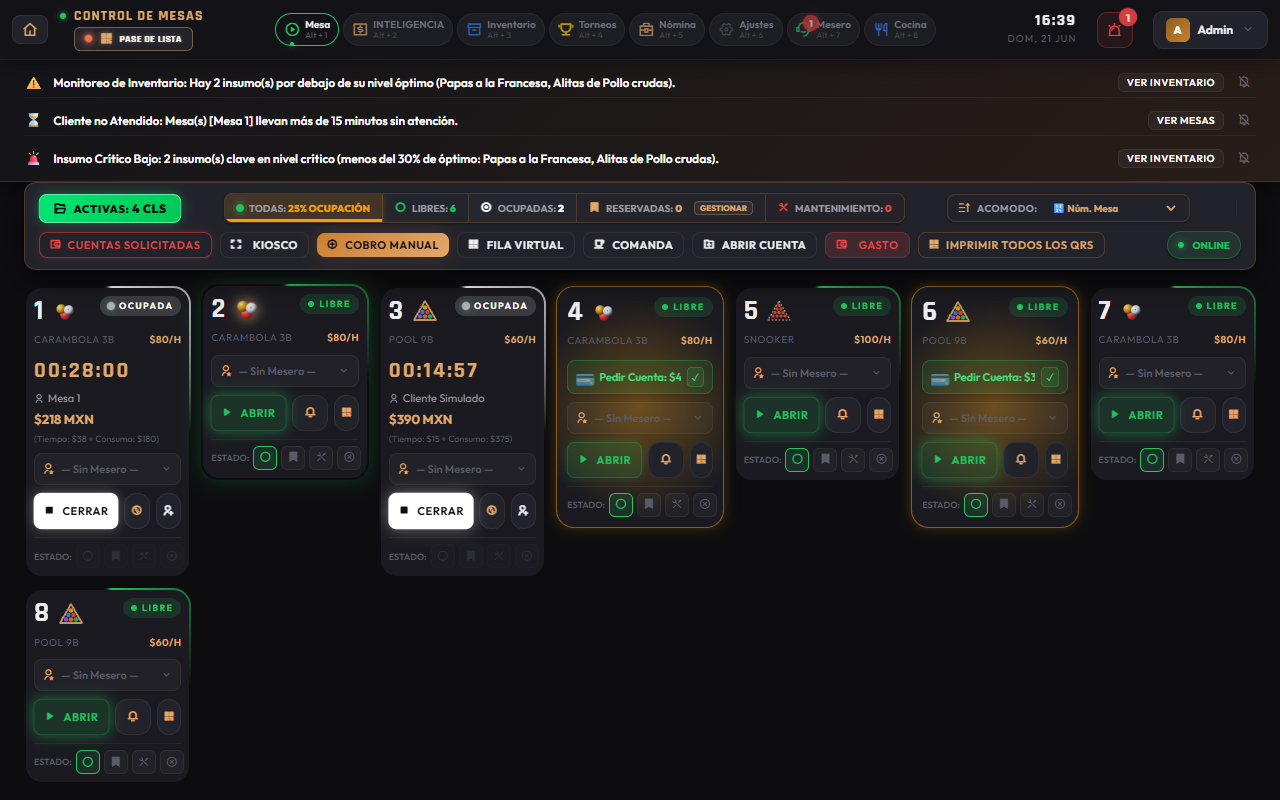
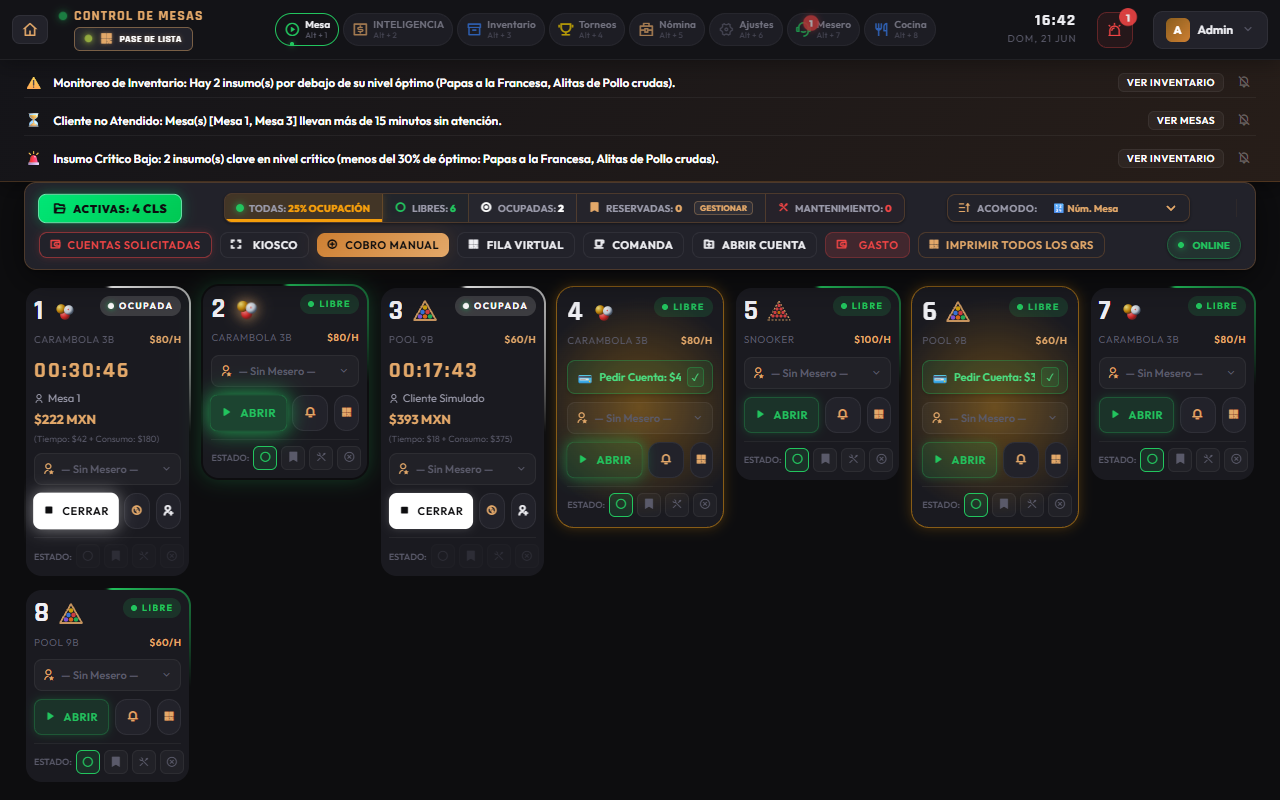
Actualizacion: 21/06/2026 16:43:59.93

diff --git a/scratch/simulate_all_flows.js b/scratch/simulate_all_flows.js
@@ -15,11 +15,11 @@ async function dismissAlerts(page) {
         const text = await page.evaluate(el => el.textContent, btn);
         if (text.includes('Atendido') || (text.includes('✓') && text.toLowerCase().includes('atend'))) {
           console.log(`  [ALERTA DETECTADA] Descartando alerta activa: "${text.trim()}"`);
-          await btn.click();
+          await page.evaluate(el => el.click(), btn);
           await delay(2000);
           dismissed = true;
           dismissedCount++;
-          break; // Salir y volver a buscar botones (por si la lista cambió)
+          break; // Salir y volver a buscar botones
         }
       } catch (e) {}
     }
@@ -60,10 +60,16 @@ async function run() {
     await page.waitForSelector('select.form-select', { timeout: 15000 });
     await page.select('select.form-select', '[email redacted]');
     await page.type('input[type="password"]', 'admin1111');
-    await Promise.all([
-      page.click('button[type="submit"]'),
-      page.waitForNavigation({ waitUntil: 'networkidle2', timeout: 15000 }).catch(() => {})
-    ]);
+    
+    // Clic en el botón submit usando evaluate
+    const submitBtn = await page.$('button[type="submit"]');
+    if (submitBtn) {
+      await Promise.all([
+        page.evaluate(el => el.click(), submitBtn),
+        page.waitForNavigation({ waitUntil: 'networkidle2', timeout: 15000 }).catch(() => {})
+      ]);
+    }
+    
     await page.waitForSelector('.page-header, .panel-header, button', { timeout: 15000 });
     console.log("✓ Login exitoso.");
     await page.screenshot({ path: 'scratch/0_login_success.png' });
@@ -88,8 +94,8 @@ async function run() {
 
     if (paseListaBtn) {
       console.log("  Abriendo modal de Pase de Lista...");
-      await paseListaBtn.click();
-      await delay(2000);
+      await page.evaluate(el => el.click(), paseListaBtn);
+      await delay(2500);
 
       // Esperar a que se carguen los empleados en el modal (icono de usuario)
       await page.waitForSelector('.ri-user-line', { timeout: 10000 }).catch(err => {
@@ -121,7 +127,7 @@ async function run() {
 
       if (firstEmployee) {
         console.log("  Haciendo clic en el primer empleado para fichar...");
-        await firstEmployee.click();
+        await page.evaluate(el => el.click(), firstEmployee);
         await delay(2500);
 
         // Si es mesero, abre el modal de asignación de mesas
@@ -137,7 +143,7 @@ async function run() {
 
         if (omitirBtn) {
           console.log(`  Confirmando asistencia con '${await page.evaluate(el => el.textContent, omitirBtn)}'...`);
-          await omitirBtn.click();
+          await page.evaluate(el => el.click(), omitirBtn);
           await delay(3000);
           console.log("✓ Asistencia fichada exitosamente.");
           await page.screenshot({ path: 'scratch/2_pase_lista_success.png' });
@@ -153,7 +159,7 @@ async function run() {
       for (const btn of closeButtons) {
         const text = await page.evaluate(el => el.textContent, btn);
         if (text.includes('Volver') || text.includes('Cancelar') || text.includes('Cerrar') || text.includes('✖')) {
-          await btn.click().catch(() => {});
+          await page.evaluate(el => el.click(), btn).catch(() => {});
           await delay(1000);
         }
       }
@@ -193,12 +199,12 @@ async function run() {
       }
       if (abrirMesaBtnInCard) {
         console.log(`  Haciendo clic en el botón 'Abrir' de la Mesa ${mesaIdSeleccionada}...`);
-        await abrirMesaBtnInCard.click();
+        await page.evaluate(el => el.click(), abrirMesaBtnInCard);
       } else {
         console.log("  No se encontró el botón 'Abrir', intentando clic general en la tarjeta...");
-        await libreCard.click();
+        await page.evaluate(el => el.click(), libreCard);
       }
-      await delay(2500);
+      await delay(3000);
 
       // Llenar el nombre en el modal
       await page.waitForSelector('input[placeholder="Ej: Carlos Rodríguez"]', { timeout: 10000 });
@@ -208,7 +214,8 @@ async function run() {
       const checkboxes = await page.$$('input[type="checkbox"]');
       if (checkboxes.length > 0) {
         console.log("  Seleccionando renta de equipamiento premium opcional...");
-        await checkboxes[0].click();
+        await page.evaluate(el => el.click(), checkboxes[0]);
+        await delay(500);
       }
 
       // Iniciar Mesa
@@ -223,7 +230,7 @@ async function run() {
       }
 
       if (iniciarMesaBtn) {
-        await iniciarMesaBtn.click();
+        await page.evaluate(el => el.click(), iniciarMesaBtn);
         await delay(4000);
         console.log(`✓ Mesa ${mesaIdSeleccionada} abierta exitosamente.`);
         await page.screenshot({ path: 'scratch/3_mesa_abierta.png' });
@@ -249,24 +256,24 @@ async function run() {
 
     if (comandaBtn && mesaIdSeleccionada) {
       console.log("  Abriendo modal de Registro de Comanda...");
-      await comandaBtn.click();
-      await delay(2000);
+      await page.evaluate(el => el.click(), comandaBtn);
+      await delay(2500);
 
       // Clic en destino Mesa
       const destButtons = await page.$$('button');
       for (const dBtn of destButtons) {
         const text = await page.evaluate(el => el.textContent, dBtn);
         if (text.trim() === 'Mesa') {
-          await dBtn.click();
+          await page.evaluate(el => el.click(), dBtn);
           break;
         }
       }
-      await delay(1000);
+      await delay(1500);
 
       // Seleccionar la mesa destino en el select
       await page.waitForSelector('select.form-select', { timeout: 10000 });
       await page.select('select.form-select', String(mesaIdSeleccionada));
-      await delay(1000);
+      await delay(1500);
 
       // Agregar un producto disponible que no esté agotado
       const productDivs = await page.$$('div');
@@ -277,10 +284,10 @@ async function run() {
           const isAgotado = text.includes('AGOTADO');
           if (text.includes('Stock:') && !isAgotado && text.includes('$')) {
             console.log(`  Agregando producto a la comanda: ${text.split('\n')[0].trim()}`);
-            await div.click();
-            await delay(500);
-            await div.click();
+            await page.evaluate(el => el.click(), div);
             await delay(1000);
+            await page.evaluate(el => el.click(), div);
+            await delay(1500);
             addedProduct = true;
             break;
           }
@@ -300,7 +307,7 @@ async function run() {
         }
 
         if (sendBtn) {
-          await sendBtn.click();
+          await page.evaluate(el => el.click(), sendBtn);
           await delay(4000);
           console.log("✓ Comanda registrada y enviada a preparación.");
           await page.screenshot({ path: 'scratch/4_comanda_enviada.png' });
@@ -326,8 +333,8 @@ async function run() {
         const text = await page.evaluate(el => el.textContent, kBtn);
         if (text.includes('Pedido Listo')) {
           console.log("  Cocinero marca comanda como lista para mesero...");
-          await kBtn.click();
-          await delay(2000);
+          await page.evaluate(el => el.click(), kBtn);
+          await delay(2500);
           listosCocina++;
         }
       } catch (e) {}
@@ -347,8 +354,8 @@ async function run() {
         const text = await page.evaluate(el => el.textContent, mBtn);
         if (text.includes('Atendido') && text.includes('✓')) {
           console.log("  Mesero descarta alerta y entrega pedido al cliente...");
-          await mBtn.click();
-          await delay(2000);
+          await page.evaluate(el => el.click(), mBtn);
+          await delay(2500);
           entregasMesero++;
         }
       } catch (e) {}
@@ -380,12 +387,12 @@ async function run() {
         const closeBtn = await targetMesaCard.$('button');
         if (closeBtn) {
           console.log(`  Abriendo modal de cobro para la Mesa ${mesaIdSeleccionada}...`);
-          await closeBtn.click();
-          await delay(3000);
+          await page.evaluate(el => el.click(), closeBtn);
+          await delay(3500);
 
           await page.waitForSelector('input[placeholder="0.00"]', { timeout: 10000 });
           await page.type('input[placeholder="0.00"]', '1000');
-          await delay(1000);
+          await delay(1500);
 
           const payButtons = await page.$$('button');
           let confirmPayBtn = null;
@@ -399,7 +406,7 @@ async function run() {
 
           if (confirmPayBtn) {
             console.log("  Confirmando cobro y liberando la mesa...");
-            await confirmPayBtn.click();
+            await page.evaluate(el => el.click(), confirmPayBtn);
             await delay(5000);
             console.log(`✓ Mesa ${mesaIdSeleccionada} cerrada y liquidada.`);
             await page.screenshot({ path: 'scratch/7_mesa_cerrada.png' });
@@ -427,7 +434,7 @@ async function run() {
 
     if (cajaTabBtn) {
       console.log("  Navegando a Caja/Inteligencia...");
-      await cajaTabBtn.click();
+      await page.evaluate(el => el.click(), cajaTabBtn);
       await delay(4000);
 
       const panelButtons = await page.$$('button');
@@ -442,8 +449,8 @@ async function run() {
 
       if (corteBtn) {
         console.log("  Abriendo modal de Corte de Caja...");
-        await corteBtn.click();
-        await delay(2000);
+        await page.evaluate(el => el.click(), corteBtn);
+        await delay(2500);
 
         const numInputs = await page.$$('input[type="number"]');
         for (const input of numInputs) {
@@ -453,7 +460,7 @@ async function run() {
             await input.type('1');
           } catch (e) {}
         }
-        await delay(1000);
+        await delay(1500);
 
         const corteConfirmButtons = await page.$$('button');
         let saveCorteBtn = null;
@@ -467,7 +474,7 @@ async function run() {
 
         if (saveCorteBtn) {
           console.log("  Guardando corte de caja...");
-          await saveCorteBtn.click();
+          await page.evaluate(el => el.click(), saveCorteBtn);
           await delay(4000);
           console.log("✓ Corte de caja guardado con éxito.");
           await page.screenshot({ path: 'scratch/8_corte_caja_success.png' });